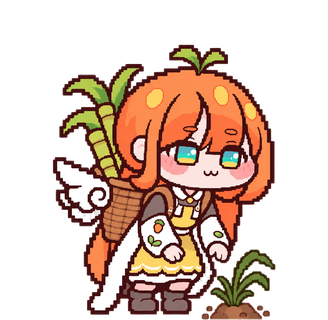
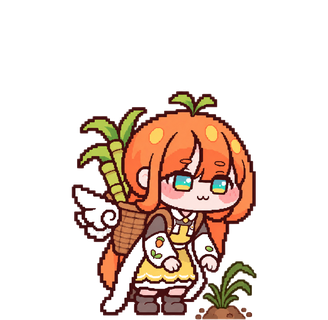
잡초 뽑기: 잡고 당기기 반복(당기는 프레임 추가), 수레: 던진 뒤 손잡이로 돌아오는 중간 프레임, 던지기 얼굴 지워짐 수정, 뽑는 자세 크기 맞춤, 웹 장면 넓혀 선택한 칸까지 끌고 가기

diff --git a/tools/viewer_template.html b/tools/viewer_template.html
@@ -15,7 +15,7 @@ h1{font-size:22px;margin:0}
 .tabs button,.ctl button{border:2px solid var(--line);background:var(--card);color:var(--ink);border-radius:10px;padding:8px 14px;font:inherit;font-weight:700;cursor:pointer}
 .tabs button[aria-pressed=true]{background:var(--acc)}
 .stage{overflow:hidden;background:var(--card);border:2px solid var(--line);border-radius:14px;display:grid;place-items:center;padding:12px}
-.stage img{transform-origin:50% 90%;width:min(100%,512px);aspect-ratio:1;image-rendering:pixelated;background:#fff;border-radius:8px}
+.stage img{transform-origin:50% 90%;height:min(512px,70vw);width:auto;max-width:100%;object-fit:contain;image-rendering:pixelated;background:#fff;border-radius:8px}
 .ctl{display:flex;flex-wrap:wrap;gap:8px;align-items:center}
 .ctl label{display:flex;gap:6px;align-items:center;color:var(--muted)}
 .strip{display:flex;gap:6px;overflow-x:auto;padding-bottom:4px}

diff --git a/tools/web_extra.py b/tools/web_extra.py
@@ -10,7 +10,7 @@ import build_web as bw
 A = os.path.join(bw.ROOT, "android", "app", "src", "main", "assets")
 FR = os.path.join(A, "frames")
 SIZE = 512
-CW, CH = 700, 520          # 장면 캔버스
+CW, CH = 1150, 520          # 장면 캔버스
 CHAR_H = 300                # 캐릭터 키(px)
 
 
@@ -67,9 +67,9 @@ class Scene:
 
     def render(self, name, x, y, tilt=0, stack=(), flies=(), ground=None):
         c = Image.new("RGBA", (CW, CH), (255, 255, 255, 255))
-        if ground is not None:  # 아직 안 뽑은 잡초(칸)
-            it, gx = ground; self.item(c, it, gx, y, 0)
         self.paste_barrow(c, self.barrow, x, y, tilt)
+        if ground is not None:  # 아직 안 뽑은 잡초(칸): 수레 손잡이 앞에 보이게
+            it, gx = ground; self.item(c, it, gx, y, 0)
         for i, it in enumerate(stack):
             sx, sy = self.slot(x, y, i, tilt); self.item(c, it, sx, sy, ((i * 53) % 21 - 10) + tilt)
         self.paste_barrow(c, self.front, x, y, tilt)
@@ -90,29 +90,29 @@ def build(out_dir, stamp):
     Y = 440
 
     def put(name, img, ms):
-        sq = Image.new("RGB", (CW, CW), "white"); sq.paste(img, (0, (CW - CH) // 2))
-        sq.resize((SIZE, SIZE), Image.NEAREST).save(os.path.join(out_dir, name + ".png"))
+        img.resize((round(CW * 0.8), round(CH * 0.8)), Image.NEAREST).save(os.path.join(out_dir, name + ".png"))  # 가로로 넓은 장면
         out.append({"src": "frames/" + name + ".png?v=" + stamp, "ms": ms, "name": name, "tf": ""})
 
     # 1) 수레로 모으기: 밀고 가서 → 평소 잡초 뽑기 → 던져 넣기, 4번
-    n = 0; x = 110.0
-    pick = [("wn_lower1", 140), ("wn_lower2", 130), ("wn_grab_v2", 200), ("wn_lower2", 130), ("wn_grab_v2", 200), ("wn_pop", 260)]
+    n = 0; x = 60.0
+    pick = [("wn_lower1", 140), ("wn_lower2", 130), ("wn_grab_v2", 200), ("wn_tug", 240), ("wn_grab_v2", 150), ("wn_tug", 260), ("wn_pop", 260)]
     for k in range(4):
-        tx = 130 + k * 25
-        steps = 8
+        tx = 40 + k * 200                     # 고른 앱 칸까지 수레를 밀고 간다
+        steps = max(4, round(abs(tx - x) / 22))
         for i in range(steps):
             xx = x + (tx - x) * (i + 1) / steps
             put(f"x_col_{n}", sc.render(("push_a", "push_pass_a", "push_b", "push_pass_b")[i % 4], xx, Y, 0, items[:k],
                                          ground=(items[k], xx + CHAR_H * 0.285 + (tx - xx))), 130); n += 1
         x = tx; gx = x + CHAR_H * 0.285
         for j, (f, ms) in enumerate(pick):
-            put(f"x_col_{n}", sc.render(f, x, Y, 0, items[:k], ground=(items[k], gx) if j < 5 else None), ms); n += 1
+            put(f"x_col_{n}", sc.render(f, x, Y, 0, items[:k], ground=(items[k], gx) if j < len(pick) - 1 else None), ms); n += 1
         # 던지기: 손 → 짐칸 포물선 4단계
         x0, y0 = x + CHAR_H * 0.3, Y - CHAR_H * 0.55
         x1, y1 = sc.slot(x, Y, k, 0)
         for j in range(4):
             t = (j + 1) / 4; fx = x0 + (x1 - x0) * t; fy = y0 + (y1 - sc.item_w() * 0.5 - y0) * t - CHAR_H * 0.35 * 4 * t * (1 - t)
-            put(f"x_col_{n}", sc.render("bw2_toss", x, Y, 0, items[:k], [(items[k], fx, fy + sc.item_w() * 0.5, 360 * t)] if j < 3 else ()), 90); n += 1
+            # 던진 손은 바로 손잡이로 돌아가고(push_a), 당근만 날아간다
+            put(f"x_col_{n}", sc.render(("bw2_toss", "bw2_toss", "bw2_regrip", "push_a")[j], x, Y, 0, items[:k], [(items[k], fx, fy + sc.item_w() * 0.5, 360 * t)] if j < 3 else ()), 90); n += 1
         put(f"x_col_{n}", sc.render("push_a", x, Y, 0, items[:k + 1]), 250); n += 1
     motions.append({"id": "barrow_collect", "title": "여러 개 선택 → 뽑아서 수레에 싣기", "frames": out}); out = []
 

diff --git a/android/app/src/main/java/com/oddfactory/carrot/Stage.java b/android/app/src/main/java/com/oddfactory/carrot/Stage.java
@@ -56,7 +56,7 @@ final class Stage extends View {
     static final Clip WATER = new Clip("i01a_water", 173, "i01_water", 200, "i01b_water", 200, "i01_water", 200, "i01b_water", 200,
             "i01_water", 200, "i01b_water", 200, "i01a_water", 173, "master", 200);
     static final Clip GRAB = new Clip("wn_lower1", 160, "wn_lower2", 150, "wn_grab_v2", 220);
-    static final Clip TUG = new Clip("wn_grab_v2", 220, "wn_lower2", 140);
+    static final Clip TUG = new Clip("wn_grab_v2", 200, "wn_tug", 260); // 잡고 당기기 반복
     // 텃밭에서 뽑기 성공: 쑥 뽑음 → 뒤로 넘어가며 물러남 → 엉덩방아 → 주저앉아 웃음 → 일어남
     // 쑥 뽑힌 반동으로 살짝 솟았다가(떠 있음) 엉덩방아로 바닥에 털썩
     static final Clip FALL = new Clip("wn_pop", 120, "wn_pop^0.05", 80, "fall_0^0.13", 90, "fall_0^0.16", 90, "fall_0^0.09", 80,
@@ -93,9 +93,10 @@ final class Stage extends View {
     // 삭제가 끝나면: 가까운 화면 끝으로 밀고 가서 바퀴를 축으로 수레를 기울여 짐을 화면 밖으로 쏟는다.
     // 수레 밀며 걷기: 왼발 → 지나가는 발 → 오른발 → 지나가는 발(몸이 살짝 위로)
     static final Clip PUSH = new Clip("push_a", 130, "push_pass_a", 110, "push_b", 130, "push_pass_b", 110);
-    static final Clip PICK = new Clip("wn_lower1", 140, "wn_lower2", 130, "wn_grab_v2", 200, "wn_lower2", 130, "wn_grab_v2", 200,
-            "wn_pop", 260, "bw2_toss", 320, "push_a", 120);
-    static final long PICK_GRAB = 140 + 130 + 200 + 130 + 200;   // 쑥 뽑히는 순간(칸의 식물이 손으로)
+    // 잡고 → 당기고 → 잡고 → 당기고 → 쑥 → 던지고 → 손이 손잡이로 돌아오며(중간) → 다시 잡음
+    static final Clip PICK = new Clip("wn_lower1", 140, "wn_lower2", 130, "wn_grab_v2", 200, "wn_tug", 240, "wn_grab_v2", 150, "wn_tug", 260,
+            "wn_pop", 260, "bw2_toss", 160, "bw2_regrip", 130, "push_a", 250);
+    static final long PICK_GRAB = 140 + 130 + 200 + 240 + 150 + 260; // 쑥 뽑히는 순간(칸의 식물이 손으로)
     static final long PICK_TOSS = PICK_GRAB + 260;               // 던지는 순간
     // 수레째 엎기(캐릭터가 손잡이를 들어 올려 엎는 그림 6장, 수레·짐 포함)
     static final Clip DUMP = new Clip("dump_0", 200, "dump_1", 220, "dump_2", 240, "dump_3", 650, "dump_4", 260, "dump_5", 700);

diff --git a/tools/build_web.py b/tools/build_web.py
@@ -17,7 +17,7 @@ SIZE = 512
 # 땅에서 올라오는 중간 자세는 머리가 스탠딩보다 낮아야 올라오는 느낌이 난다
 DROP = {}
 # 머리 폭 자동 측정이 안 맞는 프레임은 눈으로 맞춘 배율을 쓴다(스탠딩 머리 크기 기준)
-SCALE = {"fall_0": 0.83, "fall_1": 0.83, "fall_2": 0.83, "wn_pop": 0.92, "m05_harvest": 0.92, "m05b_harvest": 0.89, "k05_harvest": 0.97, "h01_notice": 0.98, "h03_popout": 0.85, "i02a_rub": 1.0, "i02_rub": 1.0}
+SCALE = {"wn_tug": 0.8, "wn_lower1": 0.86, "wn_lower2": 0.8, "wn_grab_v2": 0.8, "wn_pop": 0.8, "fall_0": 0.83, "fall_1": 0.83, "fall_2": 0.83, "m05_harvest": 0.92, "m05b_harvest": 0.89, "k05_harvest": 0.97, "h01_notice": 0.98, "h03_popout": 0.85, "i02a_rub": 1.0, "i02_rub": 1.0}
 
 # 모션 = (이름, 설명, [(파일, 보여줄 시간 ms, 바닥 맞춤 여부)])
 MOTIONS = [
@@ -62,7 +62,7 @@ MOTIONS = [
         ("master", 500, True), ("b01_barrow", 1400, True)]),
     ("delete_fall", "삭제 → 잡초 뽑고 엉덩방아", [
         ("master", 400, True), ("wn_lower1", 160, True), ("wn_lower2", 150, True), ("wn_grab_v2", 220, True),
-        ("wn_lower2", 140, True), ("wn_grab_v2", 220, True), ("wn_lower2", 140, True), ("wn_grab_v2", 220, True),
+        ("wn_tug", 260, True), ("wn_grab_v2", 160, True), ("wn_tug", 260, True), ("wn_grab_v2", 160, True), ("wn_tug", 300, True),
         ("wn_pop", 120, True), ("wn_pop", 80, True, "translateY(-5%)"),
         ("fall_0", 90, True, "translateY(-13%)"), ("fall_0", 90, True, "translateY(-16%)"), ("fall_0", 80, True, "translateY(-9%)"),
         ("fall_1", 70, True, "scale(1.06,0.92)"), ("fall_1", 450, True), ("fall_2", 900, True),

diff --git a/tools/export_overlay.py b/tools/export_overlay.py
@@ -27,7 +27,7 @@ FRAMES = [
     "h01_notice", "m05_harvest", "m05b_harvest_v2", "h03_popout", "k05_harvest",
     "m06_invite", "m06b_invite", "k06_invite",
     "fall_0", "fall_1", "fall_2",
-    "push_a", "push_pass_a", "push_b", "push_pass_b", "bw2_toss", "bw2_lift",
+    "push_a", "push_pass_a", "push_b", "push_pass_b", "bw2_toss", "bw2_regrip", "bw2_lift", "wn_tug",
 ]
 
 
